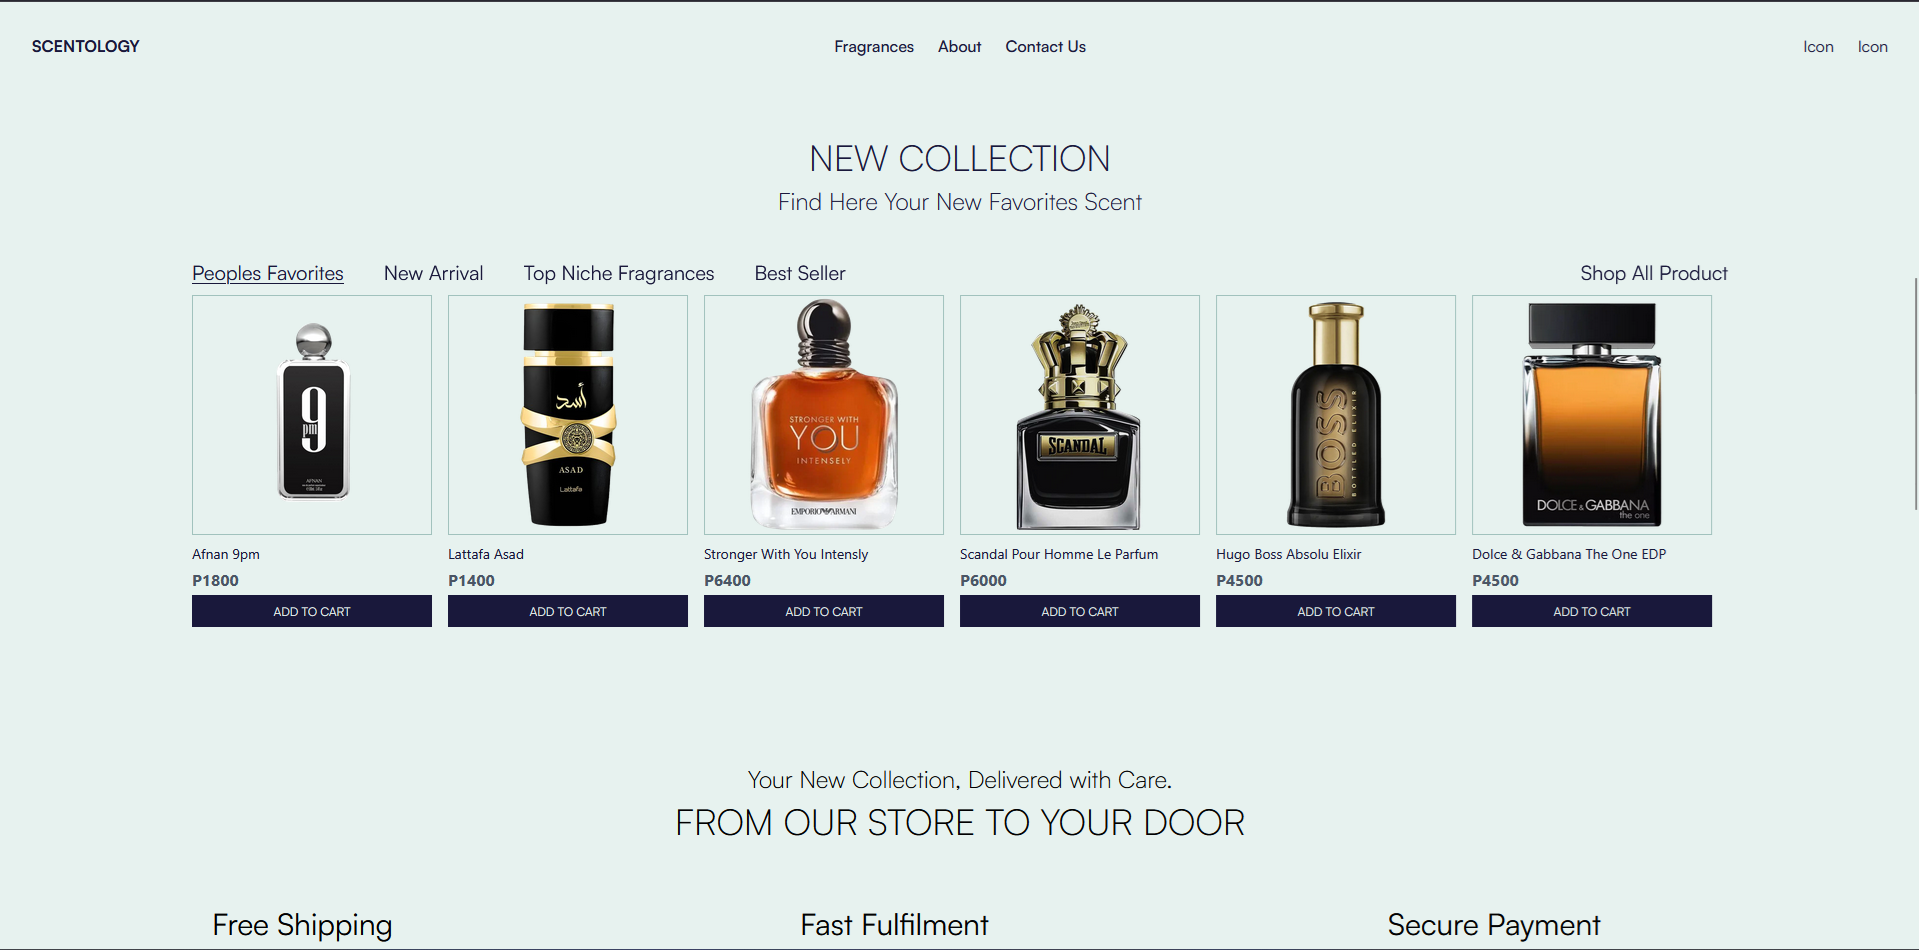
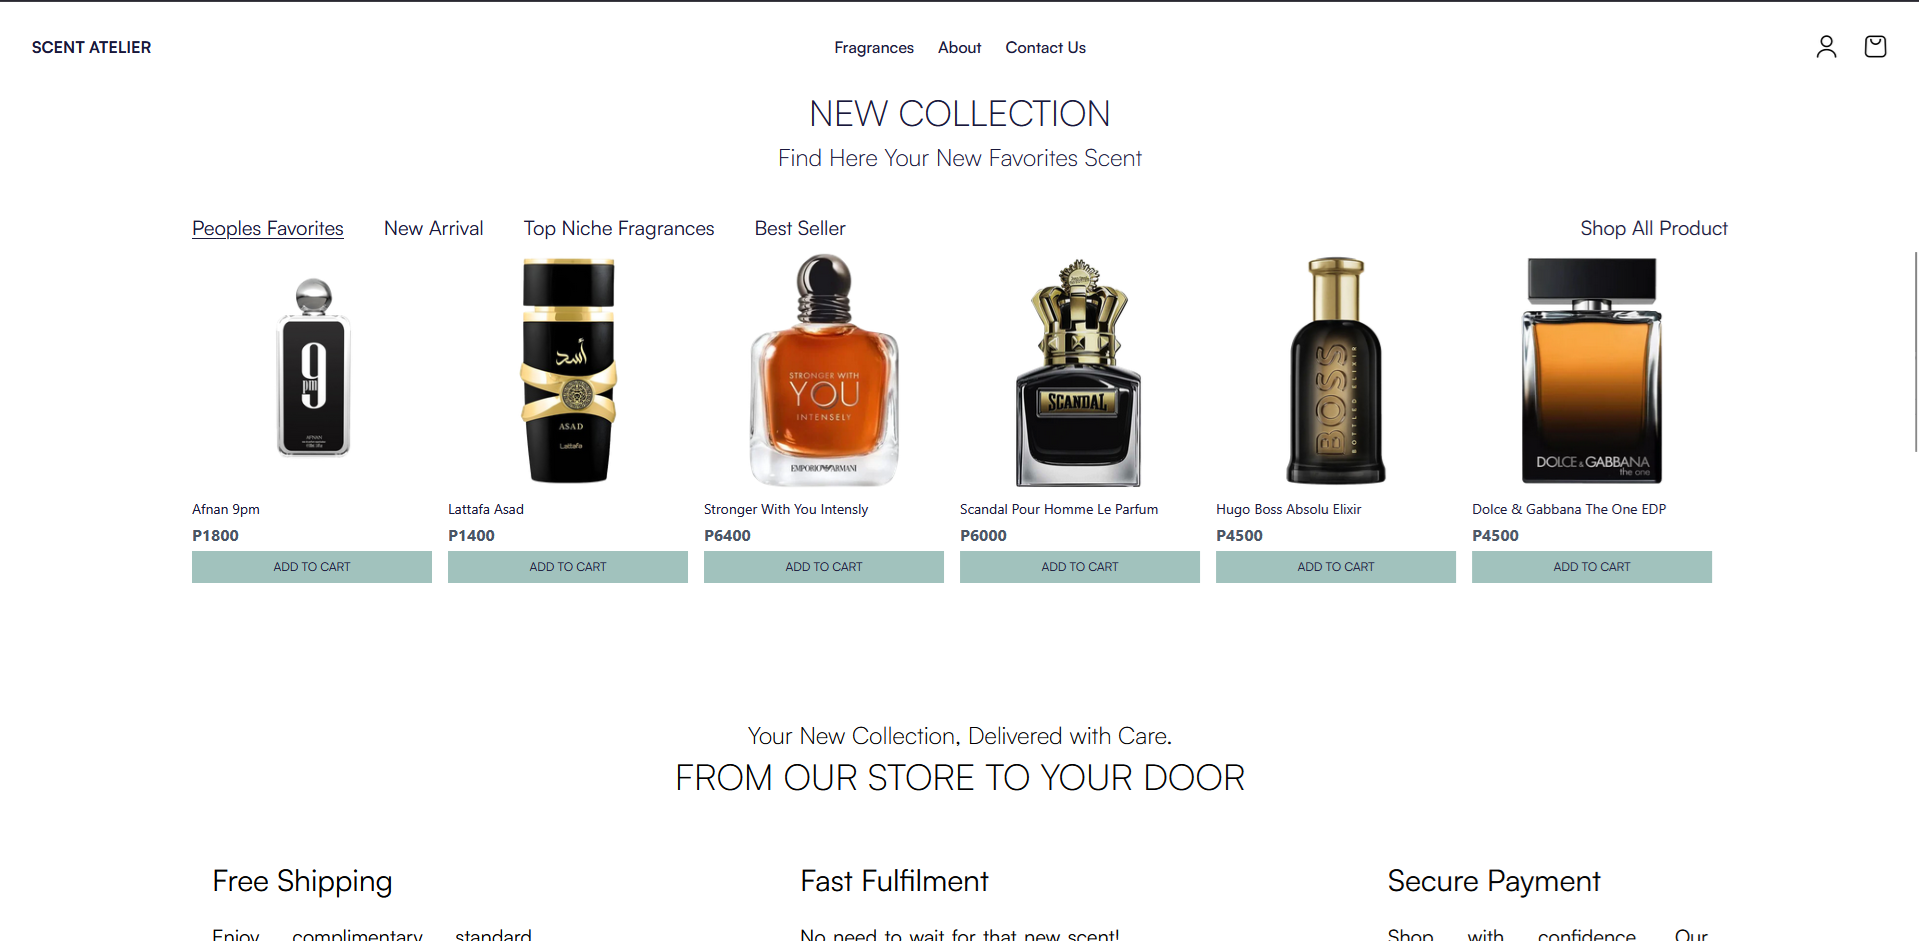
change picture and change title on the project

diff --git a/src/project.jsx b/src/project.jsx
@@ -6,7 +6,7 @@ const projects = [
   { title: "CCS Nexus", img: "/projects/ccsnexus.png", tech: "PHP • MySQL" },
   { title: "TaskFlow", img: "/projects/taskflow.png", tech: "PHP • MySQL" },
   { title: "KOI FISH (Color Grading)", img: "/img/Koi.png", tech: "Photoshop" },
-  { title: "Scentology (Work In Progress)", img: "/projects/scentology.png", tech: "React • Tailwind v4 • GSAP" },
+  { title: "SCENT ATELIER (Work In Progress)", img: "/projects/scentology.png", tech: "React • Tailwind v4 • GSAP" },
 ];
 const ProjectSection = () => {
 const [activeImage, setActiveImage] = useState(projects[0].img);
